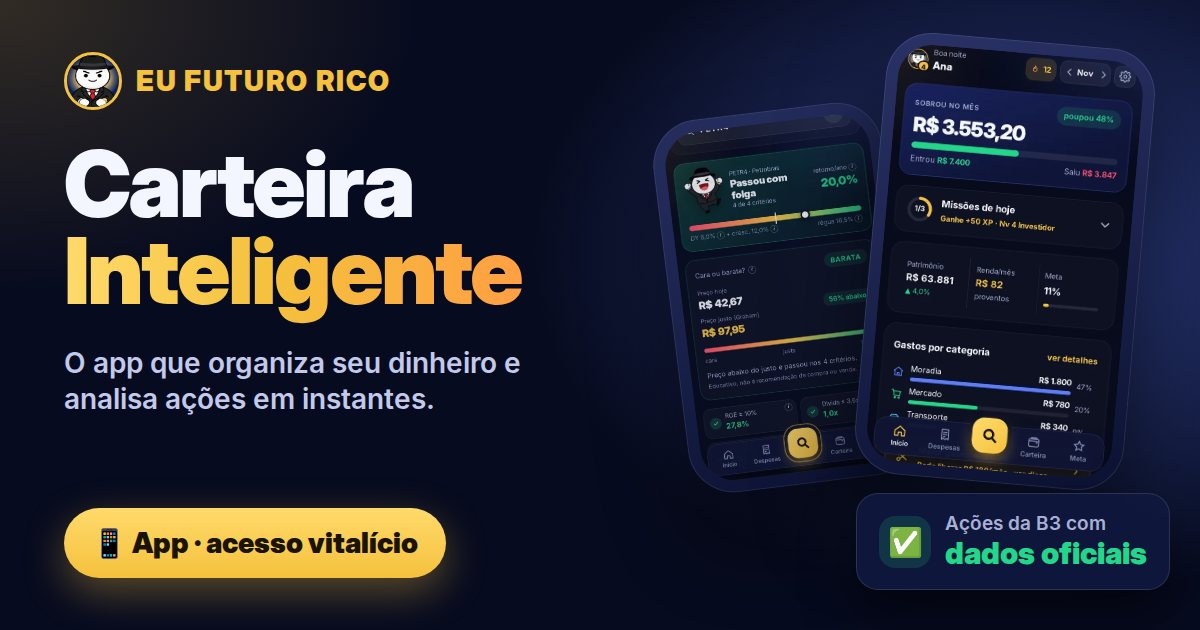
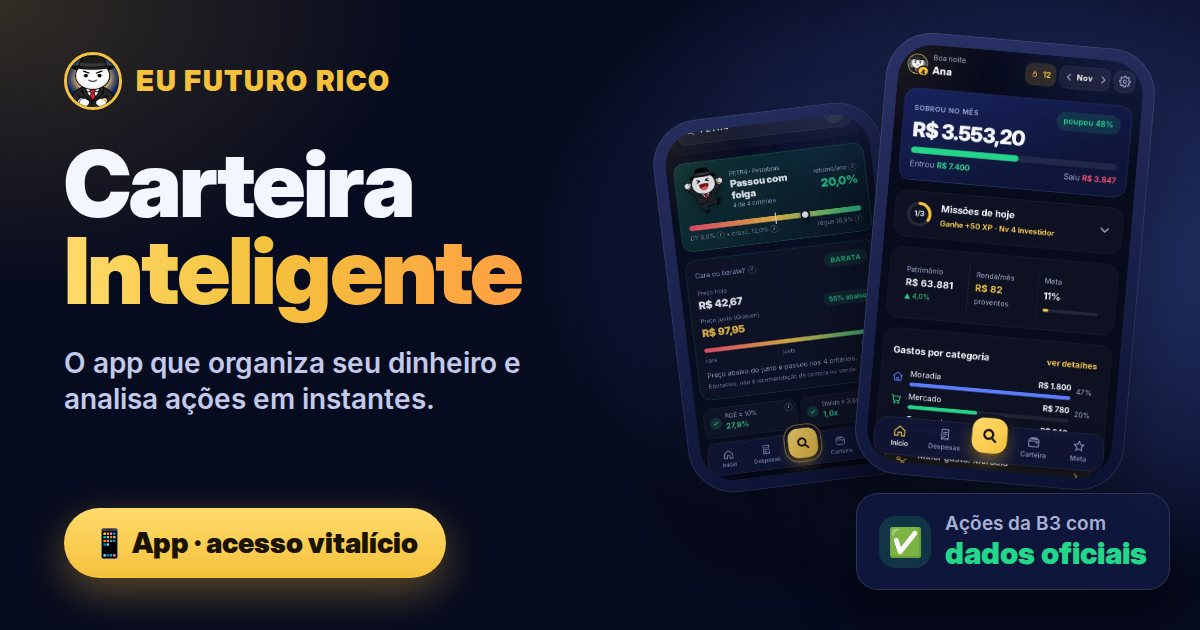
oferta: imagens atualizadas a partir do app

diff --git a/oferta/index.html b/oferta/index.html
@@ -9,7 +9,7 @@
 <meta name="theme-color" content="#070B1F">
 <meta property="og:title" content="Carteira Inteligente · Eu Futuro Rico">
 <meta property="og:description" content="Organize o mês, analise ações em instantes e acompanhe sua renda passiva. Dados oficiais do Banco Central, CVM e B3.">
-<meta property="og:image" content="https://eufuturorico.netlify.app/oferta/img/og.jpg?v=29ff6a89">
+<meta property="og:image" content="https://eufuturorico.netlify.app/oferta/img/og.jpg?v=0365838b">
 <meta property="og:image:width" content="1200">
 <meta property="og:image:height" content="630">
 <meta property="og:image:alt" content="App Carteira Inteligente do Eu Futuro Rico">
@@ -22,15 +22,15 @@
 <meta name="twitter:card" content="summary_large_image">
 <meta name="twitter:title" content="Carteira Inteligente · Eu Futuro Rico">
 <meta name="twitter:description" content="Descubra em instantes se uma ação vale o seu dinheiro. Orçamento, análise de ações, carteira e renda passiva no celular.">
-<meta name="twitter:image" content="https://eufuturorico.netlify.app/oferta/img/og.jpg?v=29ff6a89">
+<meta name="twitter:image" content="https://eufuturorico.netlify.app/oferta/img/og.jpg?v=0365838b">
 <meta name="robots" content="index,follow,max-image-preview:large">
 <link rel="canonical" href="https://eufuturorico.netlify.app/oferta/">
 <link rel="apple-touch-icon" href="/img/apple-touch-icon.png">
-<script type="application/ld+json">[{"@context": "https://schema.org", "@type": "Product", "name": "Carteira Inteligente", "description": "App de celular que organiza o orçamento, analisa quase 300 ações da B3 em instantes com dados oficiais (CVM, B3 e Banco Central), acompanha carteira e proventos e calcula quando você vive de renda.", "image": ["https://eufuturorico.netlify.app/oferta/img/og.jpg?v=29ff6a89", "https://eufuturorico.netlify.app/oferta/img/home.webp?v=085d74e6"], "brand": {"@type": "Brand", "name": "Eu Futuro Rico"}, "category": "Finanças pessoais", "offers": {"@type": "Offer", "url": "https://eufuturorico.netlify.app/oferta/", "price": "47.00", "priceCurrency": "BRL", "availability": "https://schema.org/InStock", "priceValidUntil": "2027-12-31", "hasMerchantReturnPolicy": {"@type": "MerchantReturnPolicy", "applicableCountry": "BR", "returnPolicyCategory": "https://schema.org/MerchantReturnFiniteReturnWindow", "merchantReturnDays": 7, "returnFees": "https://schema.org/FreeReturn"}}}, {"@context": "https://schema.org", "@type": "FAQPage", "mainEntity": [{"@type": "Question", "name": "Preciso baixar na App Store ou Play Store?", "acceptedAnswer": {"@type": "Answer", "text": "Não. O app abre pelo navegador do celular e você instala na tela inicial com dois toques. Ele fica com ícone, abre em tela cheia e funciona até sem internet."}}, {"@type": "Question", "name": "Funciona no iPhone e no Android?", "acceptedAnswer": {"@type": "Answer", "text": "Sim, nos dois. Também abre no computador, se você quiser."}}, {"@type": "Question", "name": "Como eu acesso depois de comprar?", "acceptedAnswer": {"@type": "Answer", "text": "Abra eufuturorico.netlify.app e digite o mesmo e-mail que você usou na compra. Você recebe um código de 6 números e entra. O acesso fica salvo no seu celular por 6 meses e é renovado quando você entrar de novo."}}, {"@type": "Question", "name": "É assinatura? Vou pagar todo mês?", "acceptedAnswer": {"@type": "Answer", "text": "Não. É um pagamento único de R$ 47, com acesso vitalício e todas as atualizações futuras incluídas."}}, {"@type": "Question", "name": "Onde ficam meus dados? Alguém vê meus gastos?", "acceptedAnswer": {"@type": "Answer", "text": "Seus lançamentos e sua carteira ficam salvos só no seu celular. Ninguém vê, nem nós. Os dados não passam sozinhos para outro aparelho; para trocar de celular, use o botão de backup do app e restaure no aparelho novo."}}, {"@type": "Question", "name": "Preciso entender de investimentos?", "acceptedAnswer": {"@type": "Answer", "text": "Não. Cada número tem um botão ⓘ que explica em linguagem simples o que ele mostra e como ler. A lição do dia também ensina um conceito por dia."}}, {"@type": "Question", "name": "O app recomenda quais ações comprar?", "acceptedAnswer": {"@type": "Answer", "text": "Não. É uma ferramenta educativa: ela aplica critérios objetivos e mostra os números, mas a decisão é sempre sua. Nenhum resultado é recomendação de compra ou venda."}}, {"@type": "Question", "name": "E se eu não gostar?", "acceptedAnswer": {"@type": "Answer", "text": "Você tem 7 dias de garantia incondicional. Pede o reembolso pela Kiwify e recebe 100% de volta."}}]}]</script>
+<script type="application/ld+json">[{"@context": "https://schema.org", "@type": "Product", "name": "Carteira Inteligente", "description": "App de celular que organiza o orçamento, analisa quase 300 ações da B3 em instantes com dados oficiais (CVM, B3 e Banco Central), acompanha carteira e proventos e calcula quando você vive de renda.", "image": ["https://eufuturorico.netlify.app/oferta/img/og.jpg?v=0365838b", "https://eufuturorico.netlify.app/oferta/img/home.webp?v=7d97d88b"], "brand": {"@type": "Brand", "name": "Eu Futuro Rico"}, "category": "Finanças pessoais", "offers": {"@type": "Offer", "url": "https://eufuturorico.netlify.app/oferta/", "price": "47.00", "priceCurrency": "BRL", "availability": "https://schema.org/InStock", "priceValidUntil": "2027-12-31", "hasMerchantReturnPolicy": {"@type": "MerchantReturnPolicy", "applicableCountry": "BR", "returnPolicyCategory": "https://schema.org/MerchantReturnFiniteReturnWindow", "merchantReturnDays": 7, "returnFees": "https://schema.org/FreeReturn"}}}, {"@context": "https://schema.org", "@type": "FAQPage", "mainEntity": [{"@type": "Question", "name": "Preciso baixar na App Store ou Play Store?", "acceptedAnswer": {"@type": "Answer", "text": "Não. O app abre pelo navegador do celular e você instala na tela inicial com dois toques. Ele fica com ícone, abre em tela cheia e funciona até sem internet."}}, {"@type": "Question", "name": "Funciona no iPhone e no Android?", "acceptedAnswer": {"@type": "Answer", "text": "Sim, nos dois. Também abre no computador, se você quiser."}}, {"@type": "Question", "name": "Como eu acesso depois de comprar?", "acceptedAnswer": {"@type": "Answer", "text": "Abra eufuturorico.netlify.app e digite o mesmo e-mail que você usou na compra. Você recebe um código de 6 números e entra. O acesso fica salvo no seu celular por 6 meses e é renovado quando você entrar de novo."}}, {"@type": "Question", "name": "É assinatura? Vou pagar todo mês?", "acceptedAnswer": {"@type": "Answer", "text": "Não. É um pagamento único de R$ 47, com acesso vitalício e todas as atualizações futuras incluídas."}}, {"@type": "Question", "name": "Onde ficam meus dados? Alguém vê meus gastos?", "acceptedAnswer": {"@type": "Answer", "text": "Seus lançamentos e sua carteira ficam salvos só no seu celular. Ninguém vê, nem nós. Os dados não passam sozinhos para outro aparelho; para trocar de celular, use o botão de backup do app e restaure no aparelho novo."}}, {"@type": "Question", "name": "Preciso entender de investimentos?", "acceptedAnswer": {"@type": "Answer", "text": "Não. Cada número tem um botão ⓘ que explica em linguagem simples o que ele mostra e como ler. A lição do dia também ensina um conceito por dia."}}, {"@type": "Question", "name": "O app recomenda quais ações comprar?", "acceptedAnswer": {"@type": "Answer", "text": "Não. É uma ferramenta educativa: ela aplica critérios objetivos e mostra os números, mas a decisão é sempre sua. Nenhum resultado é recomendação de compra ou venda."}}, {"@type": "Question", "name": "E se eu não gostar?", "acceptedAnswer": {"@type": "Answer", "text": "Você tem 7 dias de garantia incondicional. Pede o reembolso pela Kiwify e recebe 100% de volta."}}]}]</script>
 <link rel="icon" type="image/png" href="/img/favicon.png">
 <link rel="preload" href="/fonts/InterDisplay-Black.woff2" as="font" type="font/woff2" crossorigin>
 <link rel="preload" href="/fonts/Inter-Regular.woff2" as="font" type="font/woff2" crossorigin>
-<link rel="preload" href="/oferta/img/home.webp?v=085d74e6" as="image" fetchpriority="high">
+<link rel="preload" href="/oferta/img/home.webp?v=7d97d88b" as="image" fetchpriority="high">
 <style>
 @font-face{font-family:Inter;src:url(/fonts/Inter-Regular.woff2) format('woff2'),url(/fonts/Inter-Regular.woff) format('woff');font-weight:400;font-display:swap}
 @font-face{font-family:Inter;src:url(/fonts/Inter-Medium.woff2) format('woff2'),url(/fonts/Inter-Medium.woff) format('woff');font-weight:500;font-display:swap}
@@ -361,7 +361,7 @@ section[id]{scroll-margin-top:60px}
       <div class="fontes">Dados oficiais <b>Banco Central</b><i></i><b>CVM</b><i></i><b>B3</b></div>
     </div>
     <div class="stage" aria-hidden="true">
-      <div class="phone"><img src="/oferta/img/home.webp?v=085d74e6" alt="" width="585" height="996" fetchpriority="high"></div>
+      <div class="phone"><img src="/oferta/img/home.webp?v=7d97d88b" alt="" width="585" height="996" fetchpriority="high"></div>
       <div class="badge-f"><span class="ok"><svg class="ico"><use href="#i-check"/></svg></span><div>Análise em instantes<b>4 de 4 critérios</b></div></div>
     </div>
   </div>
@@ -424,7 +424,7 @@ section[id]{scroll-margin-top:60px}
           <li><svg class="ico"><use href="#i-seta"/></svg><span><b>Compartilhe a análise como imagem</b> pronta para Stories e WhatsApp.</span></li>
         </ul>
       </div>
-      <div class="vis"><div class="phone"><img src="/oferta/img/analise.webp?v=9c712184" alt="Tela de análise de ação com o resultado 'Passou com folga' e os 4 critérios" loading="lazy" width="585" height="996"></div></div>
+      <div class="vis"><div class="phone"><img src="/oferta/img/analise.webp?v=e4cd84eb" alt="Tela de análise de ação com o resultado 'Passou com folga' e os 4 critérios" loading="lazy" width="585" height="996"></div></div>
     </div>
 
     <div class="pane" role="tabpanel" id="p2" aria-labelledby="t2" hidden>
